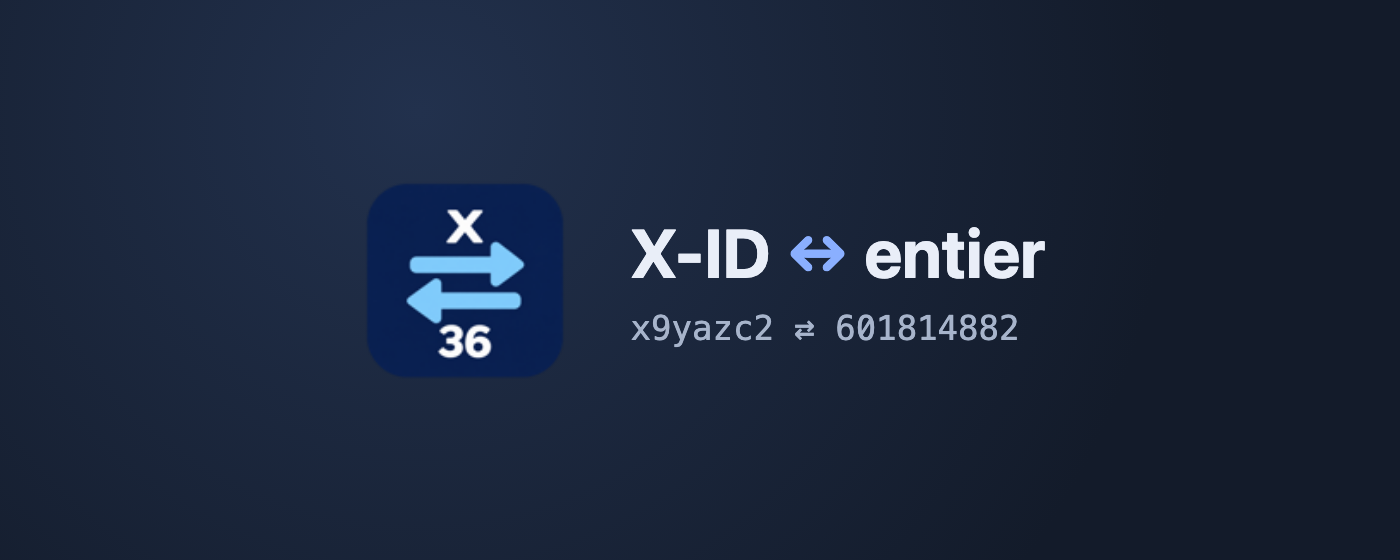
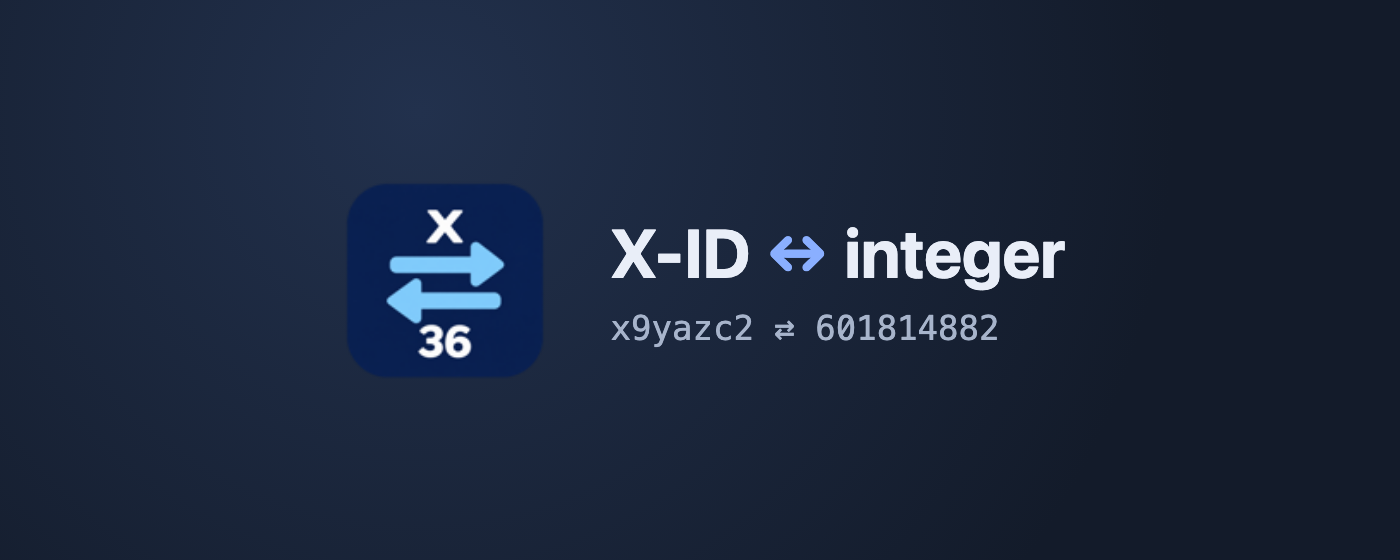
Switch extension UI to English; drop store publishing from README
- popup, context menu, tooltip, error messages, offscreen document,
  manifest description and toolbar title now in English
- store screenshots and promo tiles regenerated in English (files
  renamed accordingly); listing texts lead with English
- README: Chrome Web Store publishing sections removed (EN and FR);
  *.local.md ignored for personal notes

Changed region(s): [[0.43, 0.3946, 0.7679, 0.5161], [0.2764, 0.3643, 0.3993, 0.6375], [0.43, 0.5464, 0.7371, 0.6375]]

diff --git a/scripts/store-assets.js b/scripts/store-assets.js
@@ -36,15 +36,15 @@ function popup({input, label, result, status}) {
 
 // Paires calculées par le convertisseur : les captures restent exactes.
 const rows = [
-  ["x9yazc2", "Présentation produit — version longue", "12:04"],
-  ["x9yazc6", "Interview : les coulisses du tournage", "11:52"],
-  ["x9yb1kq", "Tutoriel : premiers pas", "11:37"],
-  ["x9yb2m0", "Résumé du match", "10:58"],
-  ["x9yb3c4", "Bande-annonce officielle", "10:21"],
+  ["x9yazc2", "Product overview — extended cut", "12:04"],
+  ["x9yazc6", "Interview: behind the scenes", "11:52"],
+  ["x9yb1kq", "Tutorial: getting started", "11:37"],
+  ["x9yb2m0", "Match highlights", "10:58"],
+  ["x9yb3c4", "Official trailer", "10:21"],
 ].map(([xid, ...rest]) => [xid, convert(xid).result, ...rest]);
 
 function browser({badge = "", body, after = ""}) {
-  return `<!doctype html><html lang="fr"><meta charset="utf-8"><style>
+  return `<!doctype html><html lang="en"><meta charset="utf-8"><style>
     * {box-sizing: border-box;} html, body {margin: 0; height: 100%;}
     body {font: 14px/1.4 system-ui, -apple-system, sans-serif; color: #1f2937; background: #f3f4f6; overflow: hidden;}
     .tabs {height: 40px; background: #dfe3e8; display: flex; align-items: end; padding: 0 12px;}
@@ -64,7 +64,7 @@ function browser({badge = "", body, after = ""}) {
     .caption {position: absolute; left: 40px; bottom: 32px; background: #131b2a; color: #e9eef8; padding: 14px 22px; border-radius: 12px; font-size: 20px; font-weight: 600;}
     .caption span {color: #8aafff;}
   </style><body>
-    <div class="tabs"><div class="tab">Vidéos — Console d'administration</div></div>
+    <div class="tabs"><div class="tab">Videos — Admin console</div></div>
     <div class="bar"><span>←</span><span>→</span><span>↻</span><div class="url">admin.example.com/videos</div>
       <div class="ext"><img src="${icon32}" alt="">${badge ? `<span class="badge">${badge}</span>` : ""}</div></div>
     <main>${body}</main>${after}
@@ -72,30 +72,30 @@ function browser({badge = "", body, after = ""}) {
 }
 
 function videosPage({search = ""} = {}) {
-  return `<h1>Vidéos</h1><p class="sub">Exemple de page interne affichant des identifiants.</p>
-    <div class="search"><input id="search" value="${search}" placeholder="Rechercher par ID"><button>Rechercher</button></div>
-    <table><tr><th>X-ID</th><th>ID</th><th>Titre</th><th>Mise à jour</th></tr>
+  return `<h1>Videos</h1><p class="sub">Sample internal page listing IDs.</p>
+    <div class="search"><input id="search" value="${search}" placeholder="Search by ID"><button>Search</button></div>
+    <table><tr><th>X-ID</th><th>ID</th><th>Title</th><th>Updated</th></tr>
     ${rows.map(([xid, id, title, time], i) => `<tr><td><code id="x${i}">${xid}</code></td><td><code>${id}</code></td><td>${title}</td><td>${time}</td></tr>`).join("")}</table>`;
 }
 
 const select = `const select = el => {const r = document.createRange(); r.selectNodeContents(el); getSelection().removeAllRanges(); getSelection().addRange(r);};`;
 
 const shots = {
-  "screenshot-1-clic-droit.png": [1280, 800, browser({
+  "screenshot-1-right-click.png": [1280, 800, browser({
     badge: "OK",
     body: videosPage(),
-    after: `<div class="caption">Clic droit sur un ID <span>→</span> converti, copié et affiché à côté</div>
+    after: `<div class="caption">Right-click an ID <span>→</span> converted, copied and shown next to it</div>
       <script>${tooltip}${select} select(document.getElementById("x0")); showTooltip("601814882", true);</script>`,
   })],
   "screenshot-2-popup.png": [1280, 800, browser({
     body: videosPage(),
-    after: `${popup({input: "x9yazc2", label: "Entier", result: "601814882", status: "Copié !"})}
-      <div class="caption">Popup <span>:</span> colle un X-ID ou un entier, la conversion est immédiate</div>`,
+    after: `${popup({input: "x9yazc2", label: "Integer", result: "601814882", status: "Copied!"})}
+      <div class="caption">Popup <span>·</span> paste an X-ID or an integer, converted instantly</div>`,
   })],
-  "screenshot-3-champ.png": [1280, 800, browser({
+  "screenshot-3-input-field.png": [1280, 800, browser({
     badge: "OK",
     body: videosPage({search: "601814886"}),
-    after: `<div class="caption">Fonctionne aussi dans les champs de saisie <span>·</span> entier → X-ID</div>
+    after: `<div class="caption">Works in input fields too <span>·</span> integer → X-ID</div>
       <script>${tooltip} const field = document.getElementById("search"); field.focus(); field.select(); showTooltip("x9yazc6", true);</script>`,
   })],
 };
@@ -109,7 +109,7 @@ function promo(width, height) {
     img {width: ${110 * scale}px; height: ${110 * scale}px;}
     h1 {font-size: ${34 * scale}px; margin: 0 0 ${8 * scale}px;} h1 span {color: #8aafff;}
     p {margin: 0; font: ${17 * scale}px ui-monospace, monospace; color: #a7b4cb;}
-  </style><body><img src="${icon128}" alt=""><div><h1>X-ID <span>↔</span> entier</h1><p>x9yazc2 ⇄ 601814882</p></div></body>`;
+  </style><body><img src="${icon128}" alt=""><div><h1>X-ID <span>↔</span> integer</h1><p>x9yazc2 ⇄ 601814882</p></div></body>`;
 }
 shots["promo-small-440x280.png"] = [440, 280, promo(440, 280)];
 shots["promo-marquee-1400x560.png"] = [1400, 560, promo(1400, 560)];

diff --git a/src/background/service-worker.js b/src/background/service-worker.js
@@ -5,14 +5,14 @@ let creating;
 let queue = Promise.resolve();
 chrome.runtime.onInstalled.addListener(() => {
   chrome.contextMenus.removeAll(() => {
-    chrome.contextMenus.create({id: MENU, title: "Convertir X-ID ↔ entier et copier", contexts: ["selection"]});
+    chrome.contextMenus.create({id: MENU, title: "Convert X-ID ↔ integer and copy", contexts: ["selection"]});
   });
 });
 async function ensureOffscreen() {
   const contexts = await chrome.runtime.getContexts({contextTypes: ["OFFSCREEN_DOCUMENT"], documentUrls: [chrome.runtime.getURL("src/offscreen/offscreen.html")]});
   if (contexts.length) return;
   if (!creating) {
-    creating = chrome.offscreen.createDocument({url: "src/offscreen/offscreen.html", reasons: ["CLIPBOARD"], justification: "Copier le résultat de la conversion demandée par clic droit."}).finally(() => {creating = undefined;});
+    creating = chrome.offscreen.createDocument({url: "src/offscreen/offscreen.html", reasons: ["CLIPBOARD"], justification: "Copy the result of the conversion requested from the context menu."}).finally(() => {creating = undefined;});
   }
   await creating;
 }
@@ -28,11 +28,11 @@ async function processSelection(text, tab, frameId) {
     await chrome.storage.session.set({last: {...converted, copied: false}});
     await ensureOffscreen();
     const response = await chrome.runtime.sendMessage({target: "offscreen", type: "copy", text: converted.result});
-    if (!response?.ok) throw new Error("Copie impossible. Ouvre la popup pour copier le résultat.");
+    if (!response?.ok) throw new Error("Could not copy. Open the popup to copy the result.");
     await chrome.storage.session.set({last: {...converted, copied: true}});
     await chrome.action.setBadgeBackgroundColor({color: "#16815d"});
     await chrome.action.setBadgeText({text: "OK"});
-    await chrome.action.setTitle({title: `${converted.input} → ${converted.result} (copié)`});
+    await chrome.action.setTitle({title: `${converted.input} → ${converted.result} (copied)`});
     await showInPage(tab, frameId, converted.result, true);
   } catch (error) {
     await chrome.storage.session.set({error: error.message});

diff --git a/src/popup/popup.html b/src/popup/popup.html
@@ -1,15 +1,15 @@
 <!doctype html>
-<html lang="fr">
+<html lang="en">
 <head><meta charset="utf-8"><meta name="viewport" content="width=device-width, initial-scale=1"><title>X-ID Converter</title><link rel="stylesheet" href="popup.css"></head>
 <body>
-  <header><h1>X-ID <span>↔</span> entier</h1><p>Colle un identifiant, récupère l’autre format.</p></header>
-  <label for="input">Identifiant</label>
-  <input id="input" placeholder="x9yazc2 ou 601814882" autocomplete="off" spellcheck="false" maxlength="256" autofocus>
-  <section><span id="label">Résultat</span><output id="result" aria-live="polite">—</output></section>
-  <button id="copy" disabled>Copier le résultat</button>
+  <header><h1>X-ID <span>↔</span> integer</h1><p>Paste an ID, get the other format.</p></header>
+  <label for="input">ID</label>
+  <input id="input" placeholder="x9yazc2 or 601814882" autocomplete="off" spellcheck="false" maxlength="256" autofocus>
+  <section><span id="label">Result</span><output id="result" aria-live="polite">—</output></section>
+  <button id="copy" disabled>Copy result</button>
   <p id="status" role="status"></p>
   <footer>
-    <p>Sélectionne aussi un ID sur une page puis fais un clic droit → Convertir X-ID ↔ entier et copier.</p>
+    <p>You can also select an ID on a page, right-click → Convert X-ID ↔ integer and copy.</p>
     <p class="meta"><span id="version">X-ID Converter</span> · Emmanuel Steinitz · <a href="https://github.com/caketuzz/xid-converter" target="_blank" rel="noopener">GitHub</a></p>
   </footer>
   <script type="module" src="popup.js"></script>

diff --git a/src/popup/popup.js b/src/popup/popup.js
@@ -11,7 +11,7 @@ function update() {
   copy.disabled = true;
   status.textContent = "";
   output.textContent = "—";
-  label.textContent = "Résultat";
+  label.textContent = "Result";
   if (!input.value.trim()) return;
   try {
     const converted = convert(input.value);
@@ -23,17 +23,17 @@ function update() {
 }
 input.addEventListener("input", update);
 copy.addEventListener("click", async () => {
-  try {await navigator.clipboard.writeText(current); status.textContent = "Copié !";}
-  catch {status.textContent = "Copie impossible. Sélectionne le résultat pour le copier.";}
+  try {await navigator.clipboard.writeText(current); status.textContent = "Copied!";}
+  catch {status.textContent = "Could not copy. Select the result to copy it.";}
 });
 input.addEventListener("keydown", event => {if (event.key === "Enter" && current) copy.click();});
 async function init() {
   const {last, error} = await chrome.storage.session.get(["last", "error"]);
   if (last) {input.value = last.input; update();}
   if (error) status.textContent = error;
-  else if (last?.copied) status.textContent = "Dernière sélection : résultat déjà copié.";
+  else if (last?.copied) status.textContent = "Last selection: result already copied.";
   await chrome.action.setBadgeText({text: ""});
   input.focus();
   input.select();
 }
-init().catch(() => {status.textContent = "Historique indisponible.";});
+init().catch(() => {status.textContent = "History unavailable.";});

diff --git a/src/lib/converter.js b/src/lib/converter.js
@@ -1,15 +1,15 @@
 export function convert(value) {
   const input = value.trim().toLowerCase();
-  if (input.length > 256) throw new Error("Identifiant trop long (256 caractères maximum).");
+  if (input.length > 256) throw new Error("ID too long (256 characters maximum).");
   if (/^x[0-9a-z]+$/.test(input)) {
     let number = 0n;
     for (const char of input.slice(1)) {
       number = number * 36n + BigInt("0123456789abcdefghijklmnopqrstuvwxyz".indexOf(char));
     }
-    return {input, result: number.toString(), label: "Entier"};
+    return {input, result: number.toString(), label: "Integer"};
   }
   if (/^[0-9]+$/.test(input)) {
     return {input, result: "x" + BigInt(input).toString(36), label: "X-ID"};
   }
-  throw new Error("Sélectionne un X-ID (x9yazc2) ou un entier positif ou nul.");
+  throw new Error("Select an X-ID (x9yazc2) or a non-negative integer.");
 }

diff --git a/src/offscreen/offscreen.html b/src/offscreen/offscreen.html
@@ -1,3 +1,3 @@
 <!doctype html>
-<html lang="fr"><head><meta charset="utf-8"><title>Copie du résultat</title></head>
-<body><textarea id="clipboard" aria-label="Résultat à copier"></textarea><script src="offscreen.js"></script></body></html>
+<html lang="en"><head><meta charset="utf-8"><title>Copy result</title></head>
+<body><textarea id="clipboard" aria-label="Result to copy"></textarea><script src="offscreen.js"></script></body></html>

diff --git a/src/content/tooltip.js b/src/content/tooltip.js
@@ -31,7 +31,7 @@ export function showTooltip(text, ok) {
   const tip = shadow.querySelector(".tip");
   if (ok) {
     tip.textContent = text + " ";
-    tip.append(Object.assign(document.createElement("span"), {textContent: "copié"}));
+    tip.append(Object.assign(document.createElement("span"), {textContent: "copied"}));
   } else {
     tip.textContent = text;
     tip.classList.add("error");

diff --git a/README.md b/README.md
@@ -8,18 +8,16 @@ Lightweight Chrome extension that converts between a decimal integer ID and its 
 
 🇫🇷 [Version française plus bas](#version-française)
 
-![Right-click conversion: the result is copied and shown next to the ID](store/screenshot-1-clic-droit.png)
+![Right-click conversion: the result is copied and shown next to the ID](store/screenshot-1-right-click.png)
 
 | Popup | In input fields |
 | --- | --- |
-| ![Popup](store/screenshot-2-popup.png) | ![Input field](store/screenshot-3-champ.png) |
-
-> The extension UI is in French.
+| ![Popup](store/screenshot-2-popup.png) | ![Input field](store/screenshot-3-input-field.png) |
 
 ## Features
 
-- **Popup**: paste an integer or an X-ID, the conversion is instant. Click **Copier le résultat** or press Enter.
-- **Right-click**: select just the ID on a page, then **Convertir X-ID ↔ entier et copier**. The result is copied to the clipboard and shown in a tooltip at the top-right of the selection (click it or scroll to dismiss). The toolbar badge shows **OK**, or **!** on error, with details in the popup. The last right-click conversion stays visible in the popup for the current Chrome session.
+- **Popup**: paste an integer or an X-ID, the conversion is instant. Click **Copy result** or press Enter.
+- **Right-click**: select just the ID on a page, then **Convert X-ID ↔ integer and copy**. The result is copied to the clipboard and shown in a tooltip at the top-right of the selection (click it or scroll to dismiss). The toolbar badge shows **OK**, or **!** on error, with details in the popup. The last right-click conversion stays visible in the popup for the current Chrome session.
 - Surrounding whitespace and uppercase letters are accepted. URLs, JSON prefixes, signs and multi-ID selections are rejected.
 
 Examples: `x9yazc2` ↔ `601814882`; `x9yazc6` ↔ `601814886`.
@@ -43,7 +41,7 @@ There are no automatic updates in this mode: replace the folder with a newer rel
 
 ### Without developer mode
 
-Outside developer mode, Chrome only installs extensions from the Chrome Web Store, or through enterprise policy on managed devices. A `.crx` dragged into `chrome://extensions` is rejected. See [Packaging](#packaging) and [Publishing](#publishing-on-the-chrome-web-store).
+Outside developer mode, Chrome only installs extensions from the Chrome Web Store, or through enterprise policy on managed devices. A `.crx` dragged into `chrome://extensions` is rejected. See [Packaging](#packaging).
 
 ## Permissions and privacy
 
@@ -89,14 +87,6 @@ All three commands run the tests first. The package is built from an allowlist (
 
 The signing key `keys/xid-converter.pem` is created on the first `package:crx` (path configurable with `CRX_KEY`). It determines the extension ID: back it up outside the repository (it is git-ignored). Losing it means redeploying under a new ID.
 
-## Publishing on the Chrome Web Store
-
-1. `npm run package`, then upload `dist/xid-converter-<version>.zip` in the [Developer Dashboard](https://chrome.google.com/webstore/devconsole) (one-time $5 developer registration).
-2. Fill in the listing from [store/listing.md](store/listing.md): descriptions, category, permission justifications, privacy answers.
-3. Images are in [store/](store/): three 1280×800 screenshots, the 440×280 small promo tile and the 1400×560 marquee. Regenerate them with `npm run store-assets` (headless Chrome, built from the real popup, tooltip and icon files).
-4. Choose visibility: *Private* (Google Workspace domain only), *Unlisted* (anyone with the link) or *Public*.
-5. Updates: bump `version` in `manifest.json` and `package.json`, add a [CHANGELOG](CHANGELOG.md) entry, then upload the new ZIP. Installed copies update automatically.
-
 ## Development
 
 `npm test` (Node.js 18+) runs the conversion tests, with nothing to install.
@@ -119,12 +109,14 @@ References:
 
 ## Version française
 
+L'interface de l'extension est en anglais.
+
 Extension Chrome légère de conversion entre un identifiant entier décimal et sa forme X-ID : `x` suivi de la représentation base 36 (`601814882` ↔ `x9yazc2`). Fonctionne depuis la popup ou par clic droit sur un identifiant sélectionné. Sans build ni dépendance, calculs en BigInt pour conserver la précision des grands identifiants.
 
 ### Utilisation
 
-- **Popup** : coller un entier ou un X-ID. La conversion est immédiate. Cliquer **Copier le résultat**, ou appuyer sur Entrée dans le champ.
-- **Clic droit** : sélectionner uniquement l'identifiant sur une page, puis **Convertir X-ID ↔ entier et copier**. Le résultat est copié automatiquement et une info-bulle l'affiche en haut à droite de la sélection (clic dessus ou défilement pour la fermer). Un badge **OK** apparaît sur l'extension ; **!** signale une erreur, détaillée dans la popup. La dernière conversion par clic droit reste visible dans la popup pour la session Chrome courante.
+- **Popup** : coller un entier ou un X-ID. La conversion est immédiate. Cliquer **Copy result**, ou appuyer sur Entrée dans le champ.
+- **Clic droit** : sélectionner uniquement l'identifiant sur une page, puis **Convert X-ID ↔ integer and copy**. Le résultat est copié automatiquement et une info-bulle l'affiche en haut à droite de la sélection (clic dessus ou défilement pour la fermer). Un badge **OK** apparaît sur l'extension ; **!** signale une erreur, détaillée dans la popup. La dernière conversion par clic droit reste visible dans la popup pour la session Chrome courante.
 - Les espaces autour de l'identifiant et les lettres majuscules sont acceptés. Les URL, préfixes JSON, signes et sélections de plusieurs identifiants sont rejetés.
 
 Exemples : `x9yazc2` ↔ `601814882` ; `x9yazc6` ↔ `601814886`.
@@ -149,18 +141,16 @@ Tout fonctionne localement, sans serveur, requête réseau, télémétrie ni acc
 
 Chrome n'affiche pas nécessairement le menu d'une extension dans certaines surfaces internes, notamment les DevTools : utiliser la popup. L'info-bulle ne peut pas s'afficher sur les pages `chrome://`, le Web Store ou les iframes d'une autre origine ; la copie et le badge fonctionnent quand même.
 
-### Packaging et publication
+### Packaging
 
 ```
 npm run build                                      # dist/xid-converter/ (mode développeur)
 npm run package                                    # + dist/xid-converter-<version>.zip
 npm run package:crx -- --base-url=https://hôte/xid # + .crx signé et update.xml
-npm run store-assets                               # régénère les visuels de store/
 ```
 
 Les commandes de packaging lancent les tests d'abord, et le paquet est construit à partir d'une liste blanche (voir [Packaging](#packaging) pour le détail des fichiers inclus et exclus).
 
-- **Chrome Web Store** : envoyer le ZIP dans le [Developer Dashboard](https://chrome.google.com/webstore/devconsole), puis remplir la fiche avec les textes de [store/listing.md](store/listing.md) et les visuels de [store/](store/). Visibilité *Privé* (domaine Google Workspace), *Non répertorié* (accès par lien) ou *Public*. Pour une mise à jour : incrémenter `version` dans `manifest.json` et `package.json`, compléter le [CHANGELOG](CHANGELOG.md), puis renvoyer le ZIP.
 - **Auto-hébergé, par politique** : héberger `dist/*.crx` et `dist/update.xml` à l'URL passée en `--base-url`, puis déployer la politique `ExtensionInstallForcelist` avec la valeur `<ID>;<base-url>/update.xml` affichée par le script. Uniquement sur des postes gérés (MDM sur macOS, domaine/Intune sur Windows, Chrome Browser Cloud Management).
 - La clé de signature `keys/xid-converter.pem` est créée au premier `package:crx` (chemin modifiable via `CRX_KEY`). Elle détermine l'ID de l'extension : la sauvegarder hors du dépôt (elle est ignorée par git).
 

diff --git a/store/listing.md b/store/listing.md
@@ -1,6 +1,6 @@
 # Chrome Web Store listing
 
-Texts to paste into the [Developer Dashboard](https://chrome.google.com/webstore/devconsole), tab by tab. The extension UI is in French, so the main listing language is French; an English translation is provided for an optional second listing language.
+Texts to paste into the [Developer Dashboard](https://chrome.google.com/webstore/devconsole), tab by tab. The extension UI is in English, so the main listing language is English; a French translation is provided for an optional second listing language.
 
 ## Package
 
@@ -9,25 +9,9 @@ Texts to paste into the [Developer Dashboard](https://chrome.google.com/webstore
 
 ## Store listing
 
-**Language**: Français (fr). Optional extra language: English (en).
+**Language**: English (en). Optional extra language: Français (fr).
 
 **Category**: Developer Tools (Outils de développement).
-
-**Description (fr)**
-
-```
-Convertis instantanément un identifiant entier en X-ID (x + base 36) et inversement : 601814882 ⇄ x9yazc2.
-
-• Clic droit sur un identifiant sélectionné dans n'importe quelle page : le résultat est converti, copié dans le presse-papiers et affiché dans une info-bulle à côté de la sélection.
-• Popup : colle un X-ID ou un entier, la conversion est immédiate ; Entrée ou le bouton copie le résultat.
-• Fonctionne aussi dans les champs de saisie.
-• Calculs exacts en BigInt, même pour de très grands identifiants.
-• Accepte les espaces autour de l'identifiant et les majuscules ; rejette les URL, signes et sélections multiples.
-
-Confidentialité : tout fonctionne localement. Aucune requête réseau, aucune télémétrie, aucun accès permanent aux pages. L'extension ne lit jamais le presse-papiers.
-
-Code source (Apache 2.0) : https://github.com/caketuzz/xid-converter
-```
 
 **Description (en)**
 
@@ -42,9 +26,24 @@ Instantly convert an integer ID to its X-ID form (x + base 36) and back: 6018148
 
 Privacy: everything runs locally. No network request, no telemetry, no permanent page access. The extension never reads the clipboard.
 
-The interface is in French.
-
 Source code (Apache 2.0): https://github.com/caketuzz/xid-converter
+```
+
+**Description (fr)**
+
+```
+Convertis instantanément un identifiant entier en X-ID (x + base 36) et inversement : 601814882 ⇄ x9yazc2.
+
+• Clic droit sur un identifiant sélectionné dans n'importe quelle page : le résultat est converti, copié dans le presse-papiers et affiché dans une info-bulle à côté de la sélection.
+• Popup : colle un X-ID ou un entier, la conversion est immédiate ; Entrée ou le bouton copie le résultat.
+• Interface en anglais.
+• Fonctionne aussi dans les champs de saisie.
+• Calculs exacts en BigInt, même pour de très grands identifiants.
+• Accepte les espaces autour de l'identifiant et les majuscules ; rejette les URL, signes et sélections multiples.
+
+Confidentialité : tout fonctionne localement. Aucune requête réseau, aucune télémétrie, aucun accès permanent aux pages. L'extension ne lit jamais le presse-papiers.
+
+Code source (Apache 2.0) : https://github.com/caketuzz/xid-converter
 ```
 
 **Graphic assets** (generated by `npm run store-assets`, 24-bit PNG without alpha)
@@ -52,7 +51,7 @@ Source code (Apache 2.0): https://github.com/caketuzz/xid-converter
 | Field | File |
 | --- | --- |
 | Store icon (128×128) | `icons/icon-128.png` |
-| Screenshots (1280×800) | `store/screenshot-1-clic-droit.png`, `store/screenshot-2-popup.png`, `store/screenshot-3-champ.png` |
+| Screenshots (1280×800) | `store/screenshot-1-right-click.png`, `store/screenshot-2-popup.png`, `store/screenshot-3-input-field.png` |
 | Small promo tile (440×280) | `store/promo-small-440x280.png` |
 | Marquee promo tile (1400×560) | `store/promo-marquee-1400x560.png` |
 
@@ -68,19 +67,19 @@ Source code (Apache 2.0): https://github.com/caketuzz/xid-converter
 **Single purpose**
 
 ```
-Convertir un identifiant entre sa forme entière décimale et sa forme X-ID (x suivi de la représentation base 36), depuis la popup ou le menu contextuel, et copier le résultat.
+Convert an ID between its decimal integer form and its X-ID form (x followed by the base-36 representation), from the popup or the context menu, and copy the result.
 ```
 
 **Permission justifications**
 
 | Permission | Justification |
 | --- | --- |
-| `contextMenus` | Ajoute l'entrée « Convertir X-ID ↔ entier et copier » au menu contextuel lorsque du texte est sélectionné. C'est le point d'entrée principal de l'extension. |
-| `clipboardWrite` | Écrit le résultat de la conversion dans le presse-papiers, à la demande de l'utilisateur. L'extension ne lit jamais le presse-papiers. |
-| `offscreen` | Un service worker MV3 ne peut pas accéder au presse-papiers : un document hors écran (raison CLIPBOARD) effectue la copie demandée par clic droit. |
-| `storage` | Conserve la dernière conversion et le dernier message d'erreur dans `chrome.storage.session` (mémoire uniquement) pour les afficher dans la popup. |
-| `activeTab` | Accès temporaire à l'onglet où l'utilisateur vient d'utiliser le menu contextuel, pour y afficher l'info-bulle du résultat. Aucun accès permanent aux pages. |
-| `scripting` | Injecte, dans l'onglet accordé par `activeTab`, la fonction qui affiche l'info-bulle près de la sélection. Aucun contenu de page n'est lu ni transmis. |
+| `contextMenus` | Adds the "Convert X-ID ↔ integer and copy" entry to the context menu when text is selected. This is the extension's main entry point. |
+| `clipboardWrite` | Writes the conversion result to the clipboard, at the user's request. The extension never reads the clipboard. |
+| `offscreen` | An MV3 service worker cannot access the clipboard: an offscreen document (CLIPBOARD reason) performs the copy requested from the context menu. |
+| `storage` | Keeps the last conversion and the last error message in `chrome.storage.session` (memory only) to show them in the popup. |
+| `activeTab` | Temporary access to the tab where the user just used the context menu, to show the result tooltip there. No permanent page access. |
+| `scripting` | Injects, into the tab granted by `activeTab`, the function that shows the tooltip next to the selection. No page content is read or sent. |
 
 **Remote code**: No, I am not using remote code. All JavaScript is included in the package.
 

diff --git a/CHANGELOG.md b/CHANGELOG.md
@@ -4,6 +4,10 @@ All notable changes to this project are documented here. Format based on [Keep a
 
 ## [Unreleased]
 
+### Changed
+- Extension UI switched from French to English: popup, context menu, tooltip, error messages, manifest description and toolbar title.
+- Store screenshots and promo tiles regenerated in English.
+
 ### Added
 - Author, homepage and short name in the manifest; version, author and GitHub link in the popup footer.
 - `NOTICE`, shipped with the extension alongside `LICENSE`.
